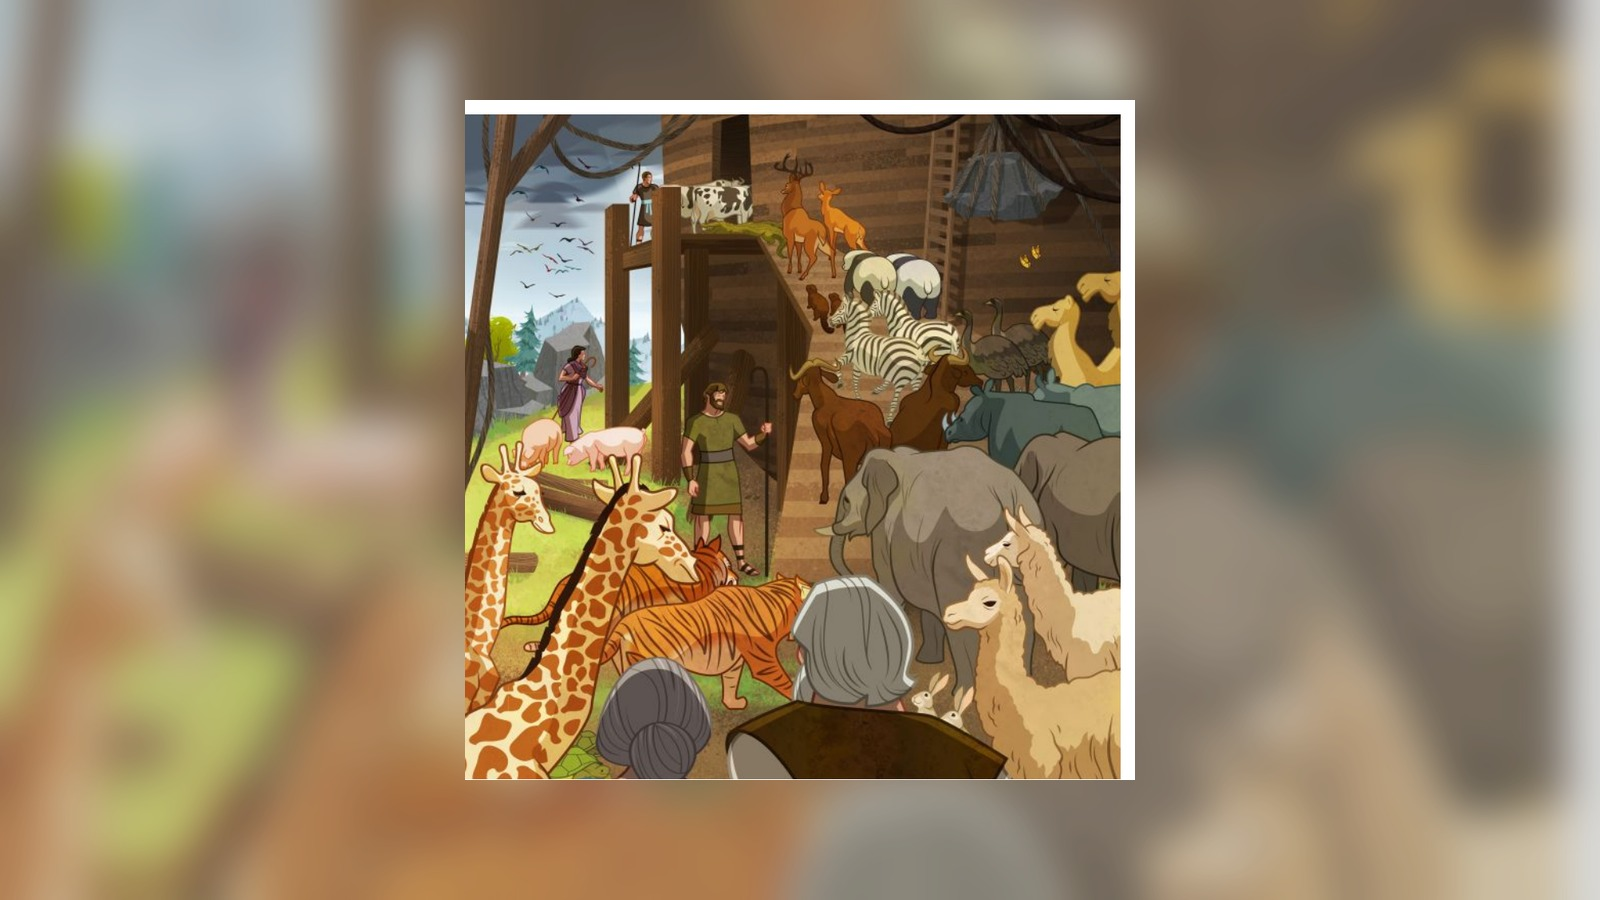
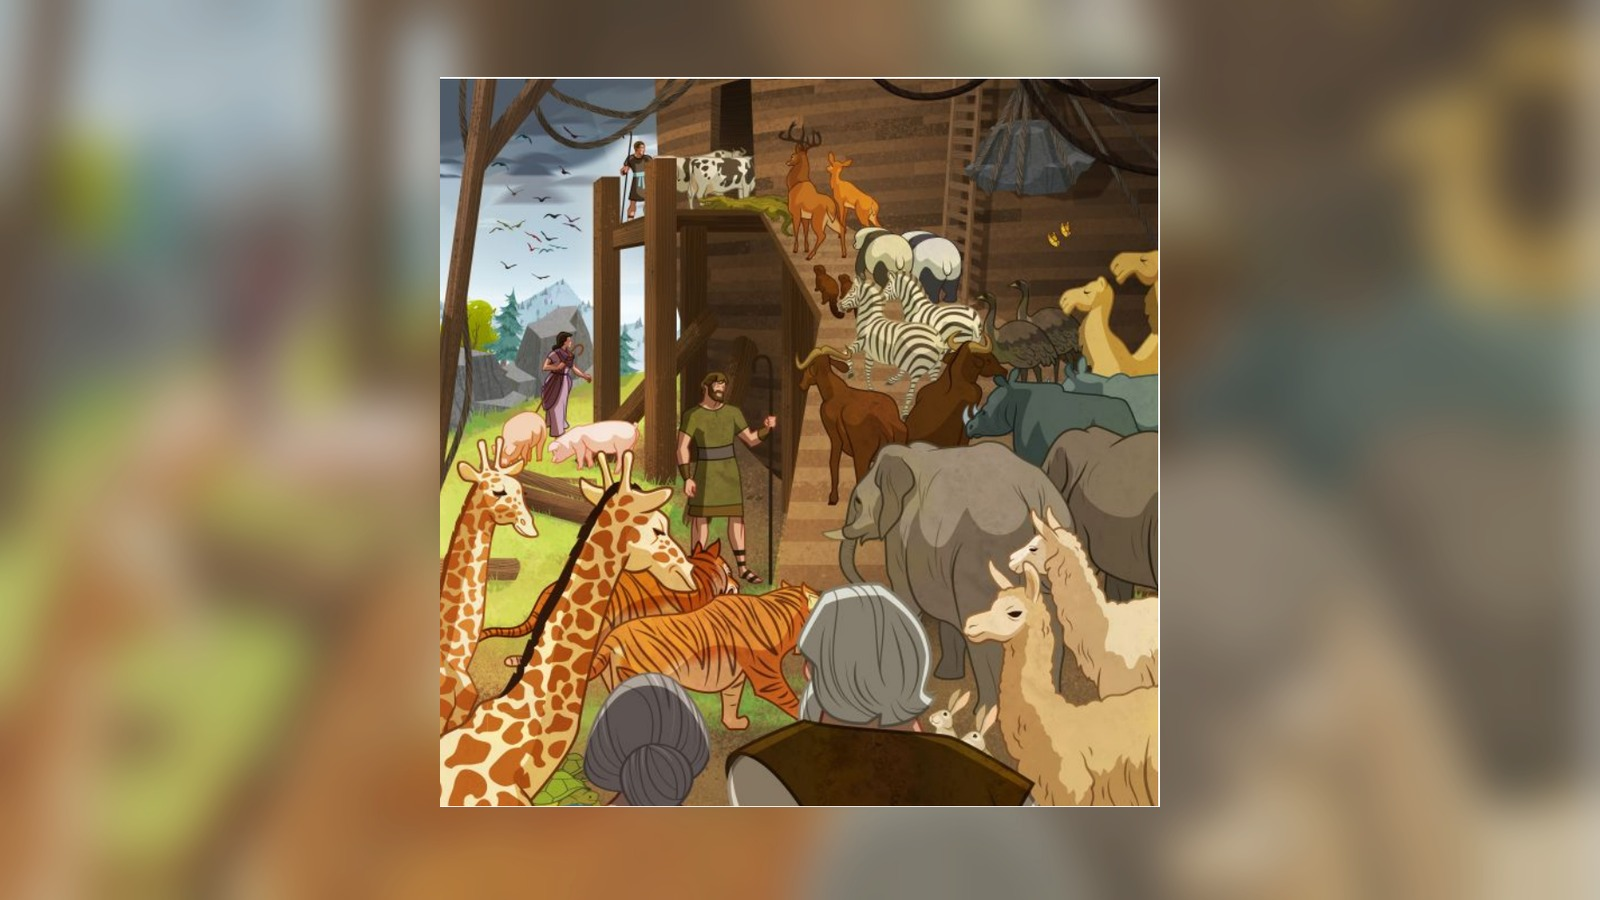
Remove Build an Ark image borders

diff --git a/build-an-ark/flipchart.html b/build-an-ark/flipchart.html
@@ -13,7 +13,7 @@
         body.gameshow-active .mode-toggle { display: none; }
         body.gameshow-active .slide-bg { filter: brightness(0.9) saturate(1.08); }
         body.gameshow-active .slide-line.guess-mode { color: #fffdf2; }
-</style></head><body><div class="progress-bar" id="progressBar"></div><div class="gameshow-intro" id="gameshowIntro" aria-hidden="true"><div class="gameshow-panel"><div class="gameshow-kicker">Primary Flipcharts Presents</div><div class="gameshow-logo">FILL IT IN!</div><div class="gameshow-song">Build an Ark</div><button class="gameshow-theme-btn" type="button" onclick="playGameShowCue('start')" title="Play theme song" aria-label="Play theme song">▶</button></div></div><div class="jump-nav" id="jumpNav"></div><div class="mode-toggle"><button class="mode-btn active" id="modeBtn" onclick="cycleMode()" title="Cycle: Lyrics to Guess to Keywords to Photo" aria-label="Cycle display mode">📝</button></div><div class="aspect-wrapper"><div class="screen"><div class="slideshow" id="slideshow"><div class="slide active" data-type="title"><img class="slide-bg" src="images/title.jpg?v=20260722pdf" alt="" aria-hidden="true"><div class="slide-content"><div class="title-main">Build an Ark</div><div class="title-sub">Marianne Porter · Primary Flipchart</div></div></div><div class="slide" data-section="Verse 1" data-full="Noah was a prophet, a man who did not fear." data-key="NOAH · PROPHET"><img class="slide-bg" src="images/slide-01.jpg?v=20260722pdf" alt="" aria-hidden="true"><div class="slide-content"><div class="slide-section">Verse 1</div><div class="slide-line"></div></div></div><div class="slide" data-section="Verse 1" data-full="When he taught repentance, the people would not hear." data-key="REPENTANCE · HEAR"><img class="slide-bg" src="images/slide-02.jpg?v=20260722pdf" alt="" aria-hidden="true"><div class="slide-content"><div class="slide-section"></div><div class="slide-line"></div></div></div><div class="slide" data-section="Verse 1" data-full="So the Lord told him to build a boat" data-key="BUILD A BOAT"><img class="slide-bg" src="images/slide-03.jpg?v=20260722pdf" alt="" aria-hidden="true"><div class="slide-content"><div class="slide-section"></div><div class="slide-line"></div></div></div><div class="slide" data-section="Verse 1" data-full="That could hold a ton and stay afloat." data-key="STAY AFLOAT"><img class="slide-bg" src="images/slide-04.jpg?v=20260722pdf" alt="" aria-hidden="true"><div class="slide-content"><div class="slide-section"></div><div class="slide-line"></div></div></div><div class="slide" data-section="Verse 1" data-full="Then Noah started building and said within his heart:" data-key="STARTED BUILDING"><img class="slide-bg" src="images/slide-05.jpg?v=20260722pdf" alt="" aria-hidden="true"><div class="slide-content"><div class="slide-section"></div><div class="slide-line"></div></div></div><div class="slide" data-section="Chorus" data-full="“I will build an ark before it starts to rain." data-key="BUILD · BEFORE RAIN"><img class="slide-bg" src="images/slide-06.jpg?v=20260722pdf" alt="" aria-hidden="true"><div class="slide-content"><div class="slide-section">Chorus</div><div class="slide-line"></div></div></div><div class="slide" data-section="Chorus" data-full="I will follow the Lord and do all things in His name." data-key="FOLLOW THE LORD"><img class="slide-bg" src="images/slide-07.jpg?v=20260722pdf" alt="" aria-hidden="true"><div class="slide-content"><div class="slide-section"></div><div class="slide-line"></div></div></div><div class="slide" data-section="Chorus" data-full="I’ll prepare ev’ry needful thing. I will walk in righteous ways." data-key="PREPARE · RIGHTEOUS"><img class="slide-bg" src="images/slide-08.jpg?v=20260722pdf" alt="" aria-hidden="true"><div class="slide-content"><div class="slide-section"></div><div class="slide-line"></div></div></div><div class="slide" data-section="Chorus" data-full="When the rain starts to fall on me, I’ll be ready for that day.”" data-key="READY"><img class="slide-bg" src="images/slide-09.jpg?v=20260722pdf" alt="" aria-hidden="true"><div class="slide-content"><div class="slide-section"></div><div class="slide-line"></div></div></div><div class="slide" data-section="Verse 2" data-full="I can be like Noah. Yes, I can be prepared." data-key="LIKE NOAH · PREPARED"><img class="slide-bg" src="images/slide-10.jpg?v=20260722pdf" alt="" aria-hidden="true"><div class="slide-content"><div class="slide-section">Verse 2</div><div class="slide-line"></div></div></div><div class="slide" data-section="Verse 2" data-full="I can build my ark, and I’ll find safe shelter there." data-key="SAFE SHELTER"><img class="slide-bg" src="images/slide-11.jpg?v=20260722pdf" alt="" aria-hidden="true"><div class="slide-content"><div class="slide-section"></div><div class="slide-line"></div></div></div><div class="slide" data-section="Verse 2" data-full="I can do the things I know are right." data-key="DO RIGHT"><img class="slide-bg" src="images/slide-12.jpg?v=20260722pdf" alt="" aria-hidden="true"><div class="slide-content"><div class="slide-section"></div><div class="slide-line"></div></div></div><div class="slide" data-section="Verse 2" data-full="I can learn and pray with all my might." data-key="LEARN · PRAY"><img class="slide-bg" src="images/slide-13.jpg?v=20260722pdf" alt="" aria-hidden="true"><div class="slide-content"><div class="slide-section"></div><div class="slide-line"></div></div></div><div class="slide" data-section="Verse 2" data-full="And then when storm clouds come, I’ll be safe within my ark." data-key="SAFE IN ARK"><img class="slide-bg" src="images/slide-14.jpg?v=20260722pdf" alt="" aria-hidden="true"><div class="slide-content"><div class="slide-section"></div><div class="slide-line"></div></div></div><div class="slide" data-section="Chorus" data-full="I will build my ark before it starts to rain." data-key="BUILD ARK"><img class="slide-bg" src="images/slide-15.jpg?v=20260722pdf" alt="" aria-hidden="true"><div class="slide-content"><div class="slide-section">Chorus</div><div class="slide-line"></div></div></div><div class="slide" data-section="Chorus" data-full="I will follow the prophet, for he speaks in God’s name." data-key="FOLLOW PROPHET"><img class="slide-bg" src="images/slide-16.jpg?v=20260722pdf" alt="" aria-hidden="true"><div class="slide-content"><div class="slide-section"></div><div class="slide-line"></div></div></div><div class="slide" data-section="Chorus" data-full="I’ll prepare ev’ry needful thing. I will walk in righteous ways." data-key="PREPARE · WALK"><img class="slide-bg" src="images/slide-17.jpg?v=20260722pdf" alt="" aria-hidden="true"><div class="slide-content"><div class="slide-section"></div><div class="slide-line"></div></div></div><div class="slide" data-section="Chorus" data-full="When the rain starts to fall on me, I’ll be ready for that day." data-key="READY"><img class="slide-bg" src="images/slide-18.jpg?v=20260722pdf" alt="" aria-hidden="true"><div class="slide-content"><div class="slide-section"></div><div class="slide-line"></div></div></div></div></div></div><div class="nav"><button class="nav-btn" id="prevBtn" onclick="changeSlide(-1)" disabled>Back</button><span class="nav-counter" id="counter">1 / 19</span><button class="nav-btn icon-btn stop-music hidden" id="audioBtn" onclick="stopGameShowCue()" type="button" title="Stop music" aria-label="Stop music">■</button><button class="nav-btn" id="nextBtn" onclick="changeSlide(1)">Next</button></div><script>
+</style></head><body><div class="progress-bar" id="progressBar"></div><div class="gameshow-intro" id="gameshowIntro" aria-hidden="true"><div class="gameshow-panel"><div class="gameshow-kicker">Primary Flipcharts Presents</div><div class="gameshow-logo">FILL IT IN!</div><div class="gameshow-song">Build an Ark</div><button class="gameshow-theme-btn" type="button" onclick="playGameShowCue('start')" title="Play theme song" aria-label="Play theme song">▶</button></div></div><div class="jump-nav" id="jumpNav"></div><div class="mode-toggle"><button class="mode-btn active" id="modeBtn" onclick="cycleMode()" title="Cycle: Lyrics to Guess to Keywords to Photo" aria-label="Cycle display mode">📝</button></div><div class="aspect-wrapper"><div class="screen"><div class="slideshow" id="slideshow"><div class="slide active" data-type="title"><img class="slide-bg" src="images/title.jpg?v=20260722arkb" alt="" aria-hidden="true"><div class="slide-content"><div class="title-main">Build an Ark</div><div class="title-sub">Marianne Porter · Primary Flipchart</div></div></div><div class="slide" data-section="Verse 1" data-full="Noah was a prophet, a man who did not fear." data-key="NOAH · PROPHET"><img class="slide-bg" src="images/slide-01.jpg?v=20260722arkb" alt="" aria-hidden="true"><div class="slide-content"><div class="slide-section">Verse 1</div><div class="slide-line"></div></div></div><div class="slide" data-section="Verse 1" data-full="When he taught repentance, the people would not hear." data-key="REPENTANCE · HEAR"><img class="slide-bg" src="images/slide-02.jpg?v=20260722arkb" alt="" aria-hidden="true"><div class="slide-content"><div class="slide-section"></div><div class="slide-line"></div></div></div><div class="slide" data-section="Verse 1" data-full="So the Lord told him to build a boat" data-key="BUILD A BOAT"><img class="slide-bg" src="images/slide-03.jpg?v=20260722arkb" alt="" aria-hidden="true"><div class="slide-content"><div class="slide-section"></div><div class="slide-line"></div></div></div><div class="slide" data-section="Verse 1" data-full="That could hold a ton and stay afloat." data-key="STAY AFLOAT"><img class="slide-bg" src="images/slide-04.jpg?v=20260722arkb" alt="" aria-hidden="true"><div class="slide-content"><div class="slide-section"></div><div class="slide-line"></div></div></div><div class="slide" data-section="Verse 1" data-full="Then Noah started building and said within his heart:" data-key="STARTED BUILDING"><img class="slide-bg" src="images/slide-05.jpg?v=20260722arkb" alt="" aria-hidden="true"><div class="slide-content"><div class="slide-section"></div><div class="slide-line"></div></div></div><div class="slide" data-section="Chorus" data-full="“I will build an ark before it starts to rain." data-key="BUILD · BEFORE RAIN"><img class="slide-bg" src="images/slide-06.jpg?v=20260722arkb" alt="" aria-hidden="true"><div class="slide-content"><div class="slide-section">Chorus</div><div class="slide-line"></div></div></div><div class="slide" data-section="Chorus" data-full="I will follow the Lord and do all things in His name." data-key="FOLLOW THE LORD"><img class="slide-bg" src="images/slide-07.jpg?v=20260722arkb" alt="" aria-hidden="true"><div class="slide-content"><div class="slide-section"></div><div class="slide-line"></div></div></div><div class="slide" data-section="Chorus" data-full="I’ll prepare ev’ry needful thing. I will walk in righteous ways." data-key="PREPARE · RIGHTEOUS"><img class="slide-bg" src="images/slide-08.jpg?v=20260722arkb" alt="" aria-hidden="true"><div class="slide-content"><div class="slide-section"></div><div class="slide-line"></div></div></div><div class="slide" data-section="Chorus" data-full="When the rain starts to fall on me, I’ll be ready for that day.”" data-key="READY"><img class="slide-bg" src="images/slide-09.jpg?v=20260722arkb" alt="" aria-hidden="true"><div class="slide-content"><div class="slide-section"></div><div class="slide-line"></div></div></div><div class="slide" data-section="Verse 2" data-full="I can be like Noah. Yes, I can be prepared." data-key="LIKE NOAH · PREPARED"><img class="slide-bg" src="images/slide-10.jpg?v=20260722arkb" alt="" aria-hidden="true"><div class="slide-content"><div class="slide-section">Verse 2</div><div class="slide-line"></div></div></div><div class="slide" data-section="Verse 2" data-full="I can build my ark, and I’ll find safe shelter there." data-key="SAFE SHELTER"><img class="slide-bg" src="images/slide-11.jpg?v=20260722arkb" alt="" aria-hidden="true"><div class="slide-content"><div class="slide-section"></div><div class="slide-line"></div></div></div><div class="slide" data-section="Verse 2" data-full="I can do the things I know are right." data-key="DO RIGHT"><img class="slide-bg" src="images/slide-12.jpg?v=20260722arkb" alt="" aria-hidden="true"><div class="slide-content"><div class="slide-section"></div><div class="slide-line"></div></div></div><div class="slide" data-section="Verse 2" data-full="I can learn and pray with all my might." data-key="LEARN · PRAY"><img class="slide-bg" src="images/slide-13.jpg?v=20260722arkb" alt="" aria-hidden="true"><div class="slide-content"><div class="slide-section"></div><div class="slide-line"></div></div></div><div class="slide" data-section="Verse 2" data-full="And then when storm clouds come, I’ll be safe within my ark." data-key="SAFE IN ARK"><img class="slide-bg" src="images/slide-14.jpg?v=20260722arkb" alt="" aria-hidden="true"><div class="slide-content"><div class="slide-section"></div><div class="slide-line"></div></div></div><div class="slide" data-section="Chorus" data-full="I will build my ark before it starts to rain." data-key="BUILD ARK"><img class="slide-bg" src="images/slide-15.jpg?v=20260722arkb" alt="" aria-hidden="true"><div class="slide-content"><div class="slide-section">Chorus</div><div class="slide-line"></div></div></div><div class="slide" data-section="Chorus" data-full="I will follow the prophet, for he speaks in God’s name." data-key="FOLLOW PROPHET"><img class="slide-bg" src="images/slide-16.jpg?v=20260722arkb" alt="" aria-hidden="true"><div class="slide-content"><div class="slide-section"></div><div class="slide-line"></div></div></div><div class="slide" data-section="Chorus" data-full="I’ll prepare ev’ry needful thing. I will walk in righteous ways." data-key="PREPARE · WALK"><img class="slide-bg" src="images/slide-17.jpg?v=20260722arkb" alt="" aria-hidden="true"><div class="slide-content"><div class="slide-section"></div><div class="slide-line"></div></div></div><div class="slide" data-section="Chorus" data-full="When the rain starts to fall on me, I’ll be ready for that day." data-key="READY"><img class="slide-bg" src="images/slide-18.jpg?v=20260722arkb" alt="" aria-hidden="true"><div class="slide-content"><div class="slide-section"></div><div class="slide-line"></div></div></div></div></div></div><div class="nav"><button class="nav-btn" id="prevBtn" onclick="changeSlide(-1)" disabled>Back</button><span class="nav-counter" id="counter">1 / 19</span><button class="nav-btn icon-btn stop-music hidden" id="audioBtn" onclick="stopGameShowCue()" type="button" title="Stop music" aria-label="Stop music">■</button><button class="nav-btn" id="nextBtn" onclick="changeSlide(1)">Next</button></div><script>
     let current = 0, mode = 'full';
     const slides = document.querySelectorAll('.slide');
     const total = slides.length;
